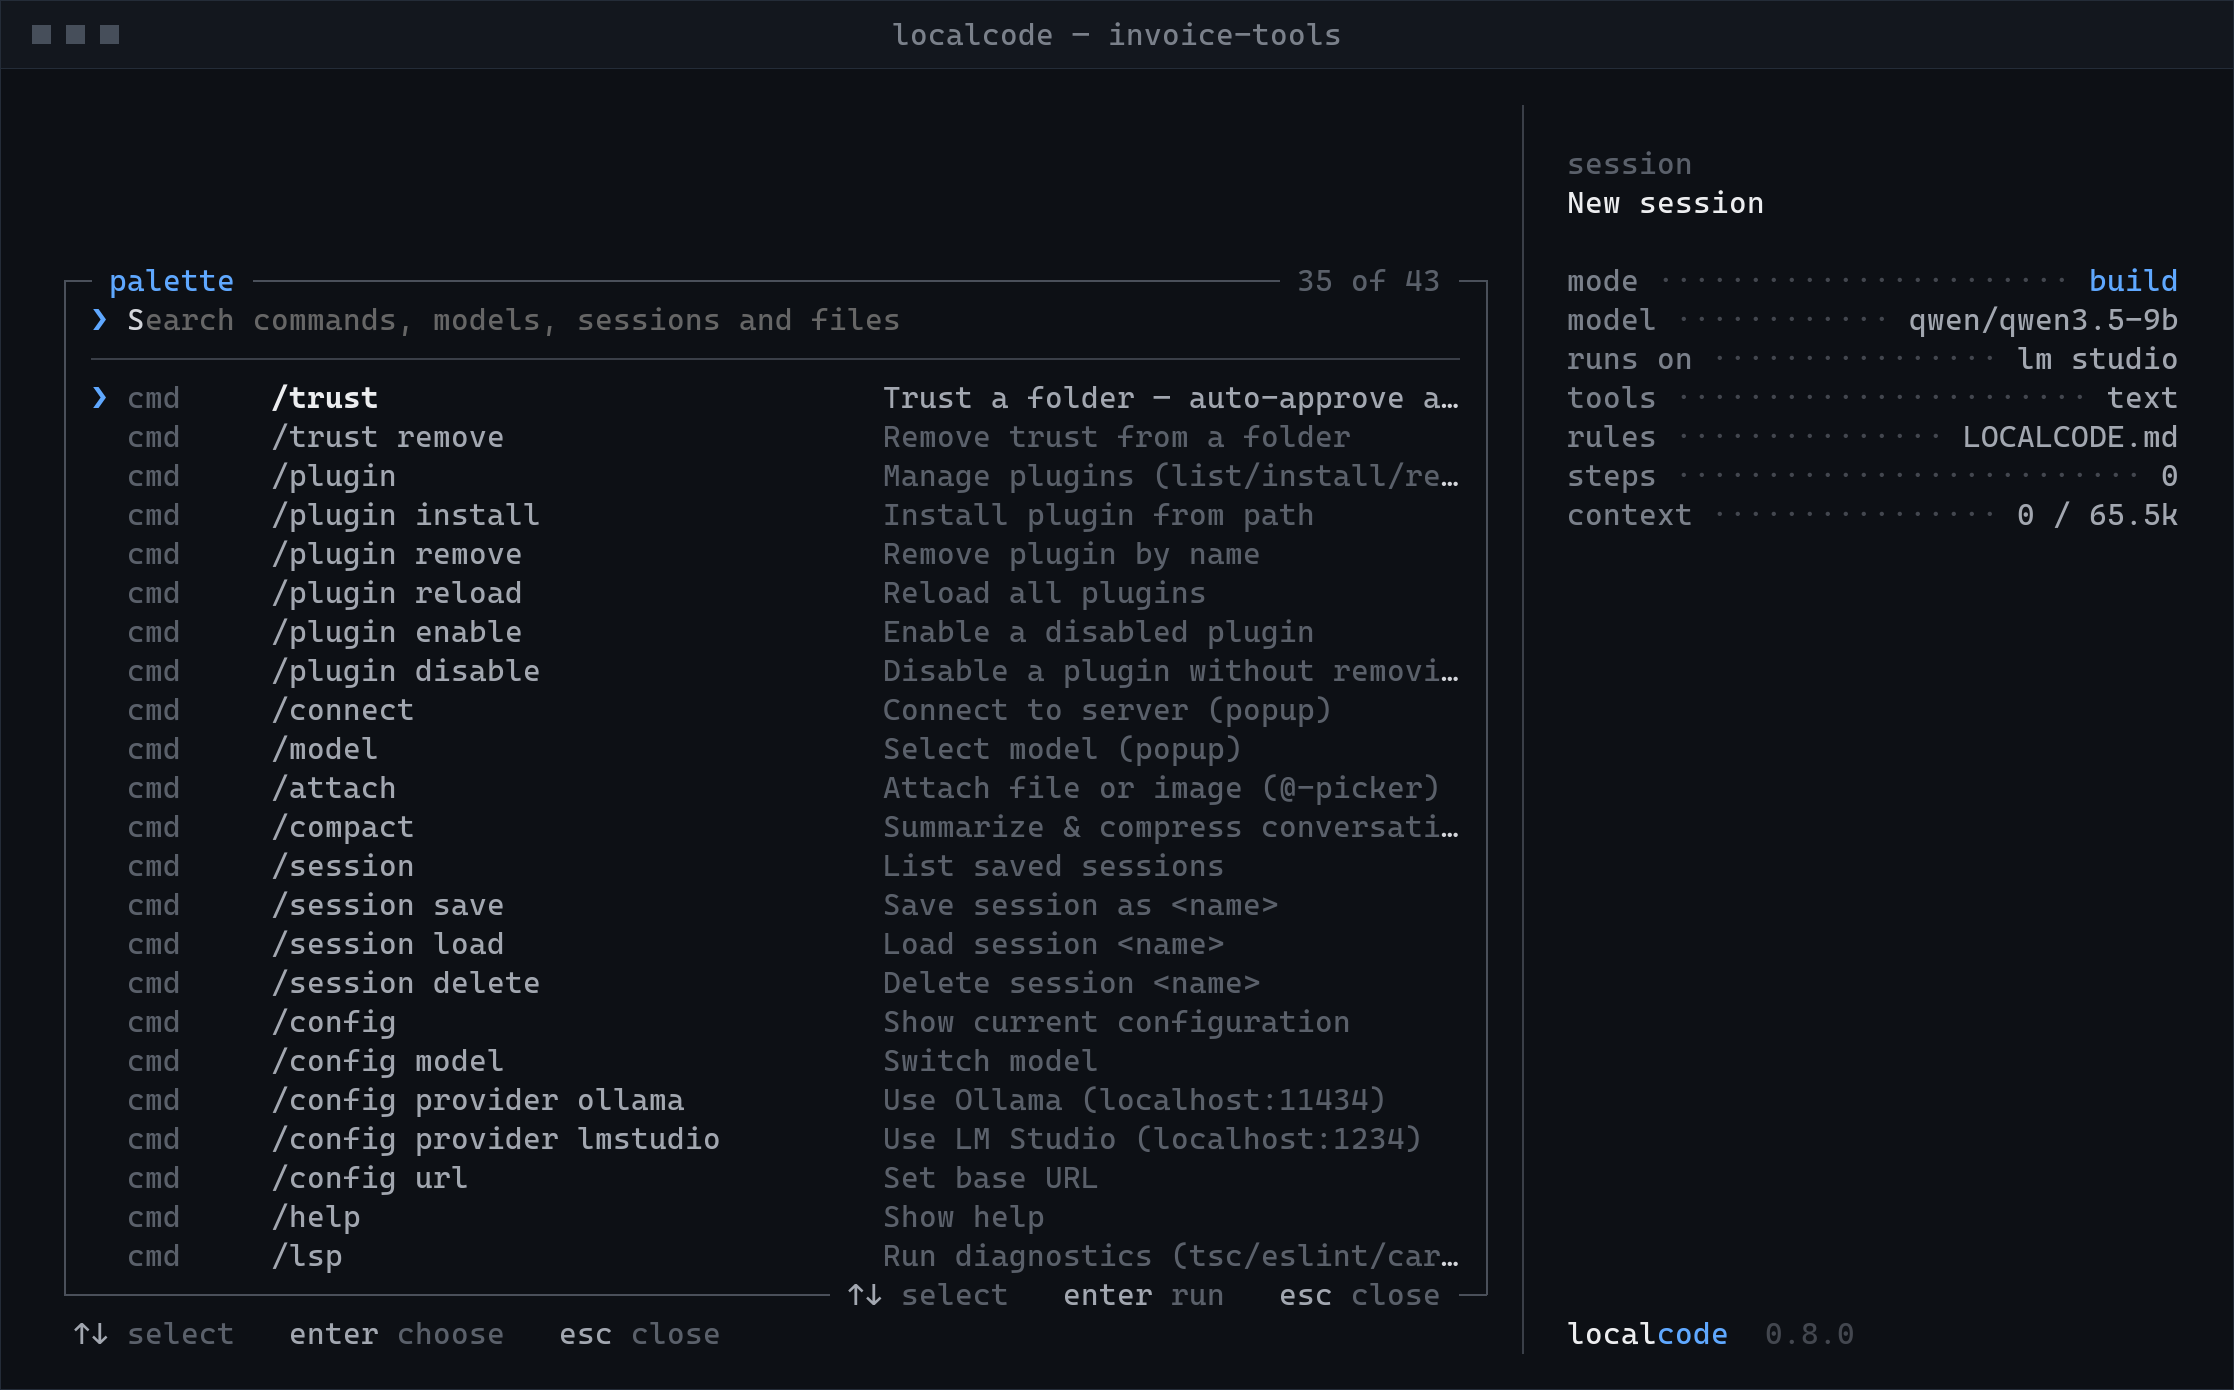
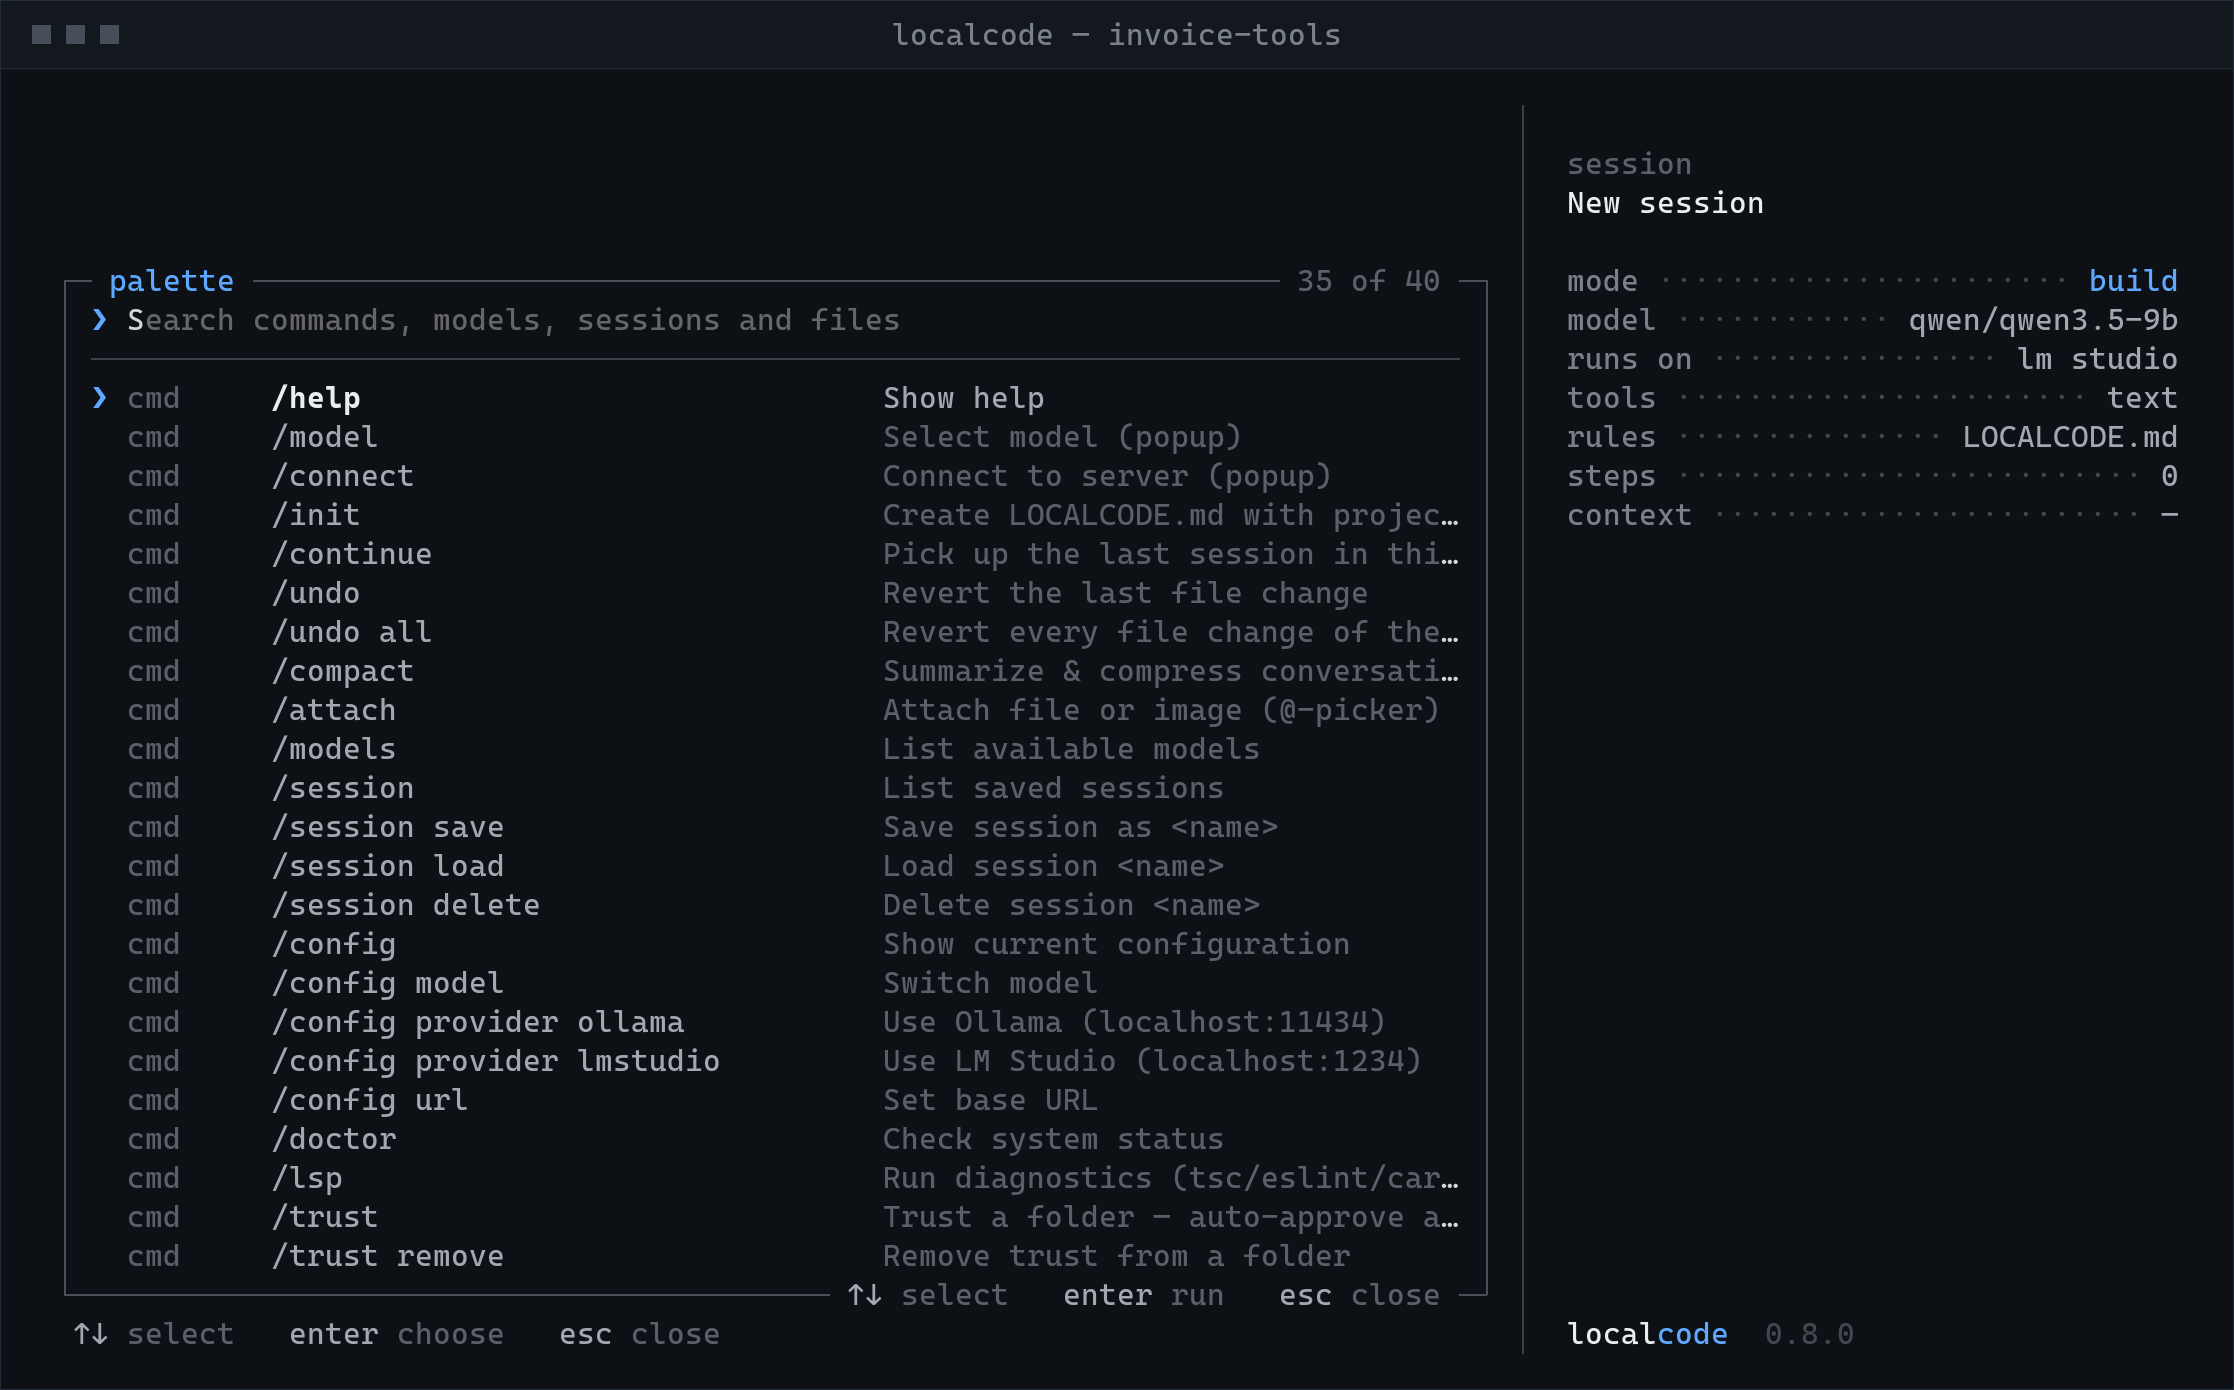
feat: install from GitHub releases with npm install -g https://github.com/lsheasel/LocalCode/releases/latest/download/localcode-agent.tgz
fix: the update notice shows the version number instead of the release tag

fix: the update notice offers a command that really installs the new version

ci: attach the npm package to every GitHub release

docs: install instructions point at the latest release; palette screenshot with the new command order

Changed region(s): [[0.4015, 0.2784, 0.6486, 0.9281], [0.1235, 0.5568, 0.3089, 0.9281], [0.1235, 0.2784, 0.2471, 0.5259]]

diff --git a/src/shared/updateChecker.ts b/src/shared/updateChecker.ts
@@ -7,6 +7,12 @@ const CHECK_INTERVAL = 1000 * 60 * 60 * 6  // 6 hours
 
 const NPM_PACKAGE  = 'localcode-agent'
 const GITHUB_REPO  = 'lsheasel/LocalCode'
+/**
+ * New versions are published as GitHub releases with the npm package
+ * attached (.github/workflows/release-tarball.yml). This URL always points at
+ * the newest one, and npm installs it like any other package.
+ */
+export const INSTALL_URL = `https://github.com/${GITHUB_REPO}/releases/latest/download/${NPM_PACKAGE}.tgz`
 
 interface UpdateCache {
   checkedAt: number
@@ -46,14 +52,23 @@ function updateCommandFor(method: 'npm' | 'git', repoDir?: string): string {
     const dir = repoDir ?? '~/LocalCode'
     return `cd ${dir} && git pull && npm install && npm run build`
   }
-  return `npm install -g ${NPM_PACKAGE}`
+  return `npm install -g ${INSTALL_URL}`
 }
 
 // ── Semver helper ────────────────────────────────────────────────────────────
 
-function semverGt(a: string, b: string): boolean {
-  const pa = a.replace(/^v/, '').split('.').map(Number)
-  const pb = b.replace(/^v/, '').split('.').map(Number)
+/**
+ * "1.2.3" from a version or a release tag. release-please tags look like
+ * "localcode-agent-v0.8.1", so a leading "v" is not the only prefix.
+ */
+export function versionOf(tag: string): string | null {
+  const m = /(\d+)\.(\d+)\.(\d+)/.exec(tag)
+  return m ? m[0] : null
+}
+
+export function semverGt(a: string, b: string): boolean {
+  const pa = (versionOf(a) ?? '0.0.0').split('.').map(Number)
+  const pb = (versionOf(b) ?? '0.0.0').split('.').map(Number)
   for (let i = 0; i < 3; i++) {
     const na = pa[i] ?? 0
     const nb = pb[i] ?? 0
@@ -100,7 +115,7 @@ async function fetchGitHubLatest(): Promise<string | null> {
     })
     if (!res.ok) return null
     const data = (await res.json()) as { tag_name?: string }
-    return typeof data.tag_name === 'string' ? data.tag_name.replace(/^v/, '') : null
+    return typeof data.tag_name === 'string' ? versionOf(data.tag_name) : null
   } catch { return null }
 }
 
@@ -114,9 +129,9 @@ async function fetchGitHubLatest(): Promise<string | null> {
 export async function checkForUpdate(currentVersion: string): Promise<UpdateInfo | null> {
   const installMethod = detectInstallMethod()
 
-  // Return cached result if still fresh
+  // Return cached result if still fresh (and made for the same kind of install)
   const cache = readCache()
-  if (cache && Date.now() - cache.checkedAt < CHECK_INTERVAL) {
+  if (cache && cache.installMethod === installMethod && Date.now() - cache.checkedAt < CHECK_INTERVAL) {
     if (cache.latestVersion && semverGt(cache.latestVersion, currentVersion)) {
       return {
         latestVersion: cache.latestVersion,
@@ -127,15 +142,10 @@ export async function checkForUpdate(currentVersion: string): Promise<UpdateInfo
     return null
   }
 
-  // Fetch from both sources in parallel; take the highest version found
-  const [npmVer, ghVer] = await Promise.all([
-    fetchNpmLatest(),
-    fetchGitHubLatest(),
-  ])
-
-  let latest: string | null = null
-  if (npmVer && (!latest || semverGt(npmVer, latest))) latest = npmVer
-  if (ghVer  && (!latest || semverGt(ghVer,  latest))) latest = ghVer
+  // Releases happen on GitHub, and both kinds of install update from there
+  // (npm through INSTALL_URL). The npm registry is only a fallback for when
+  // GitHub can't be reached.
+  const latest = (await fetchGitHubLatest()) ?? (await fetchNpmLatest())
 
   writeCache({ checkedAt: Date.now(), latestVersion: latest, installMethod })
 

diff --git a/test/unit/misc.test.ts b/test/unit/misc.test.ts
@@ -64,3 +64,18 @@ describe('checkpoints', () => {
     expect(existsSync(created)).toBe(false)
   })
 })
+
+import { versionOf, semverGt } from '../../src/shared/updateChecker'
+
+describe('update check versions', () => {
+  it('reads release-please tags', () => {
+    expect(versionOf('localcode-agent-v0.8.1')).toBe('0.8.1')
+    expect(versionOf('v1.2.3')).toBe('1.2.3')
+    expect(versionOf('nonsense')).toBeNull()
+  })
+  it('compares versions, not tag text', () => {
+    expect(semverGt('localcode-agent-v0.8.1', '0.8.0')).toBe(true)
+    expect(semverGt('localcode-agent-v0.8.0', '0.8.0')).toBe(false)
+    expect(semverGt('0.10.0', '0.9.9')).toBe(true)
+  })
+})

diff --git a/README.md b/README.md
@@ -10,7 +10,7 @@
 </p>
 
 <p align="center">
-  <a href="https://www.npmjs.com/package/localcode-agent"><img src="https://img.shields.io/npm/v/localcode-agent?color=5FA8FF&label=npm" alt="npm version" /></a>
+  <a href="https://github.com/lsheasel/LocalCode/releases/latest"><img src="https://img.shields.io/github/package-json/v/lsheasel/LocalCode?color=5FA8FF&label=version" alt="Latest version" /></a>
   <img src="https://img.shields.io/badge/Node.js-18%2B-5FA8FF" alt="Node.js 18+" />
   <img src="https://img.shields.io/badge/runs%20on-Ollama%20%7C%20LM%20Studio-5FA8FF" alt="Runs on Ollama or LM Studio" />
   <img src="https://img.shields.io/badge/license-MIT-5FA8FF" alt="MIT license" />
@@ -35,10 +35,12 @@
 You need [Node.js 18+](https://nodejs.org) and a model running in [Ollama](https://ollama.com) or [LM Studio](https://lmstudio.ai).
 
 ```bash
-npm install -g localcode-agent
+npm install -g https://github.com/lsheasel/LocalCode/releases/latest/download/localcode-agent.tgz
 cd your-project
 localcode
 ```
+
+That link always installs the newest release. To update later, run the same command again (LocalCode also tells you when a new version is out).
 
 Out of the box it talks to Ollama on its default port. Using LM Studio or a different model? Run `/connect` or `/model` once and it remembers. Then type what you want done.
 
